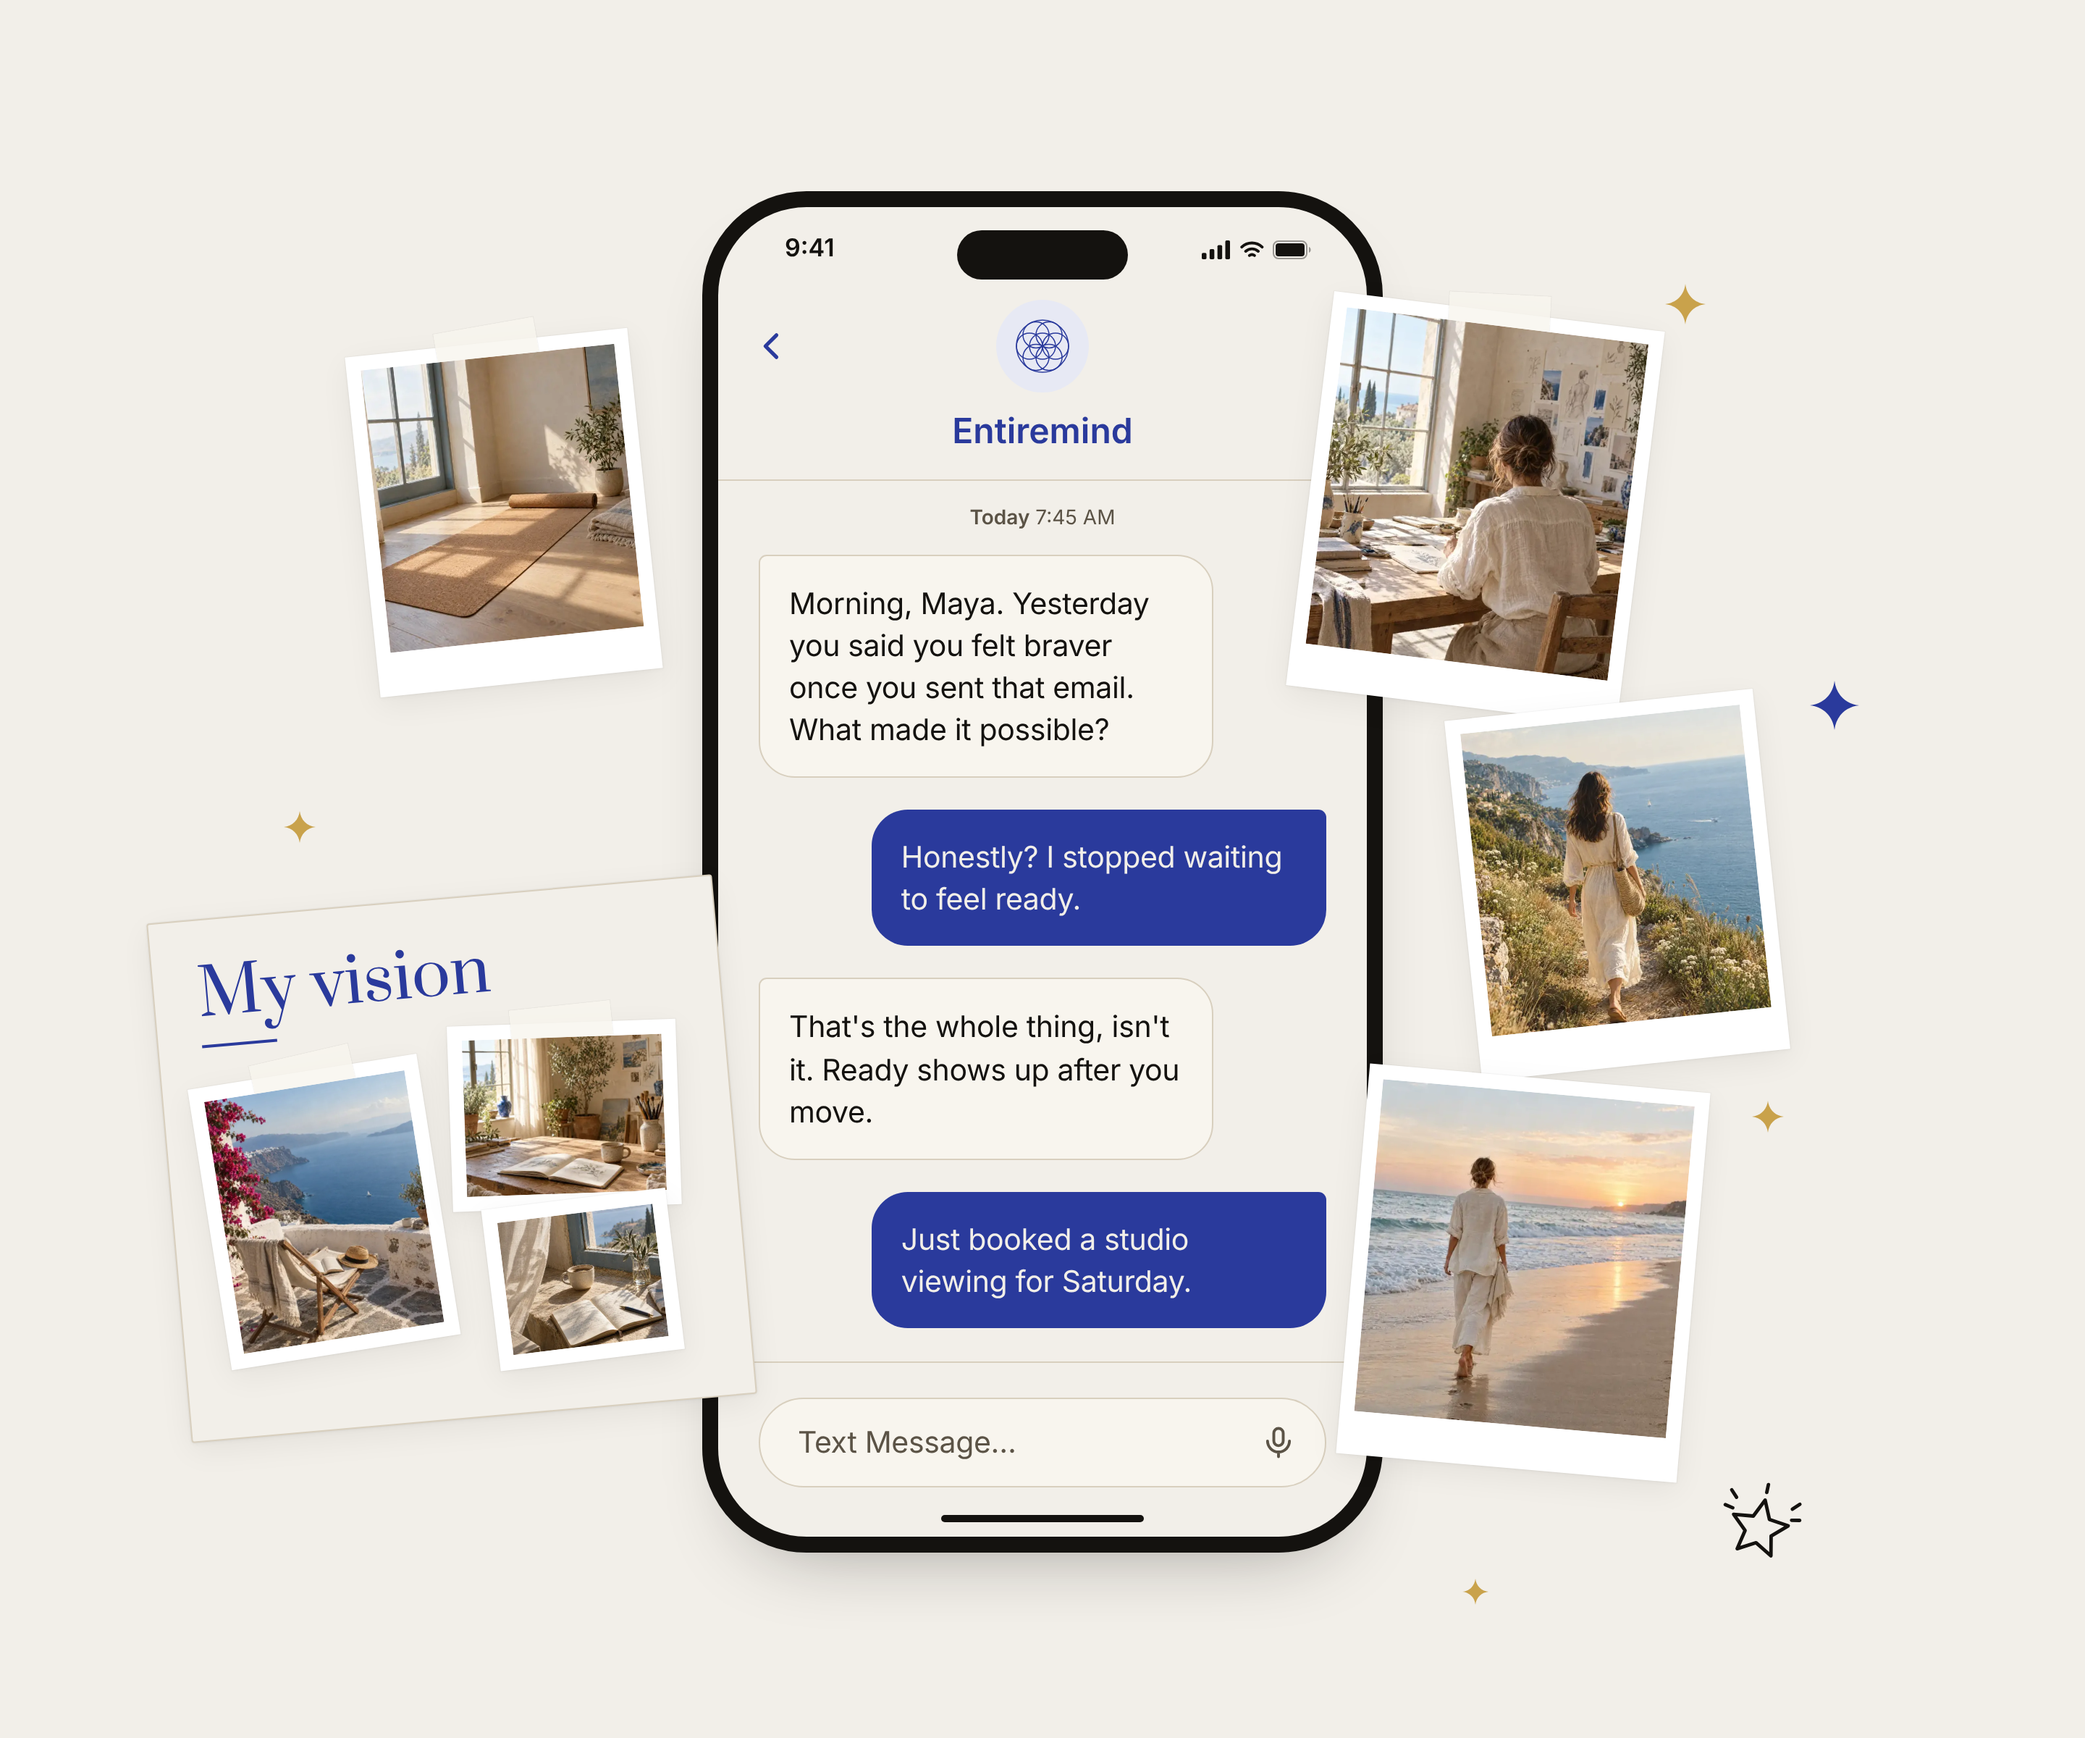
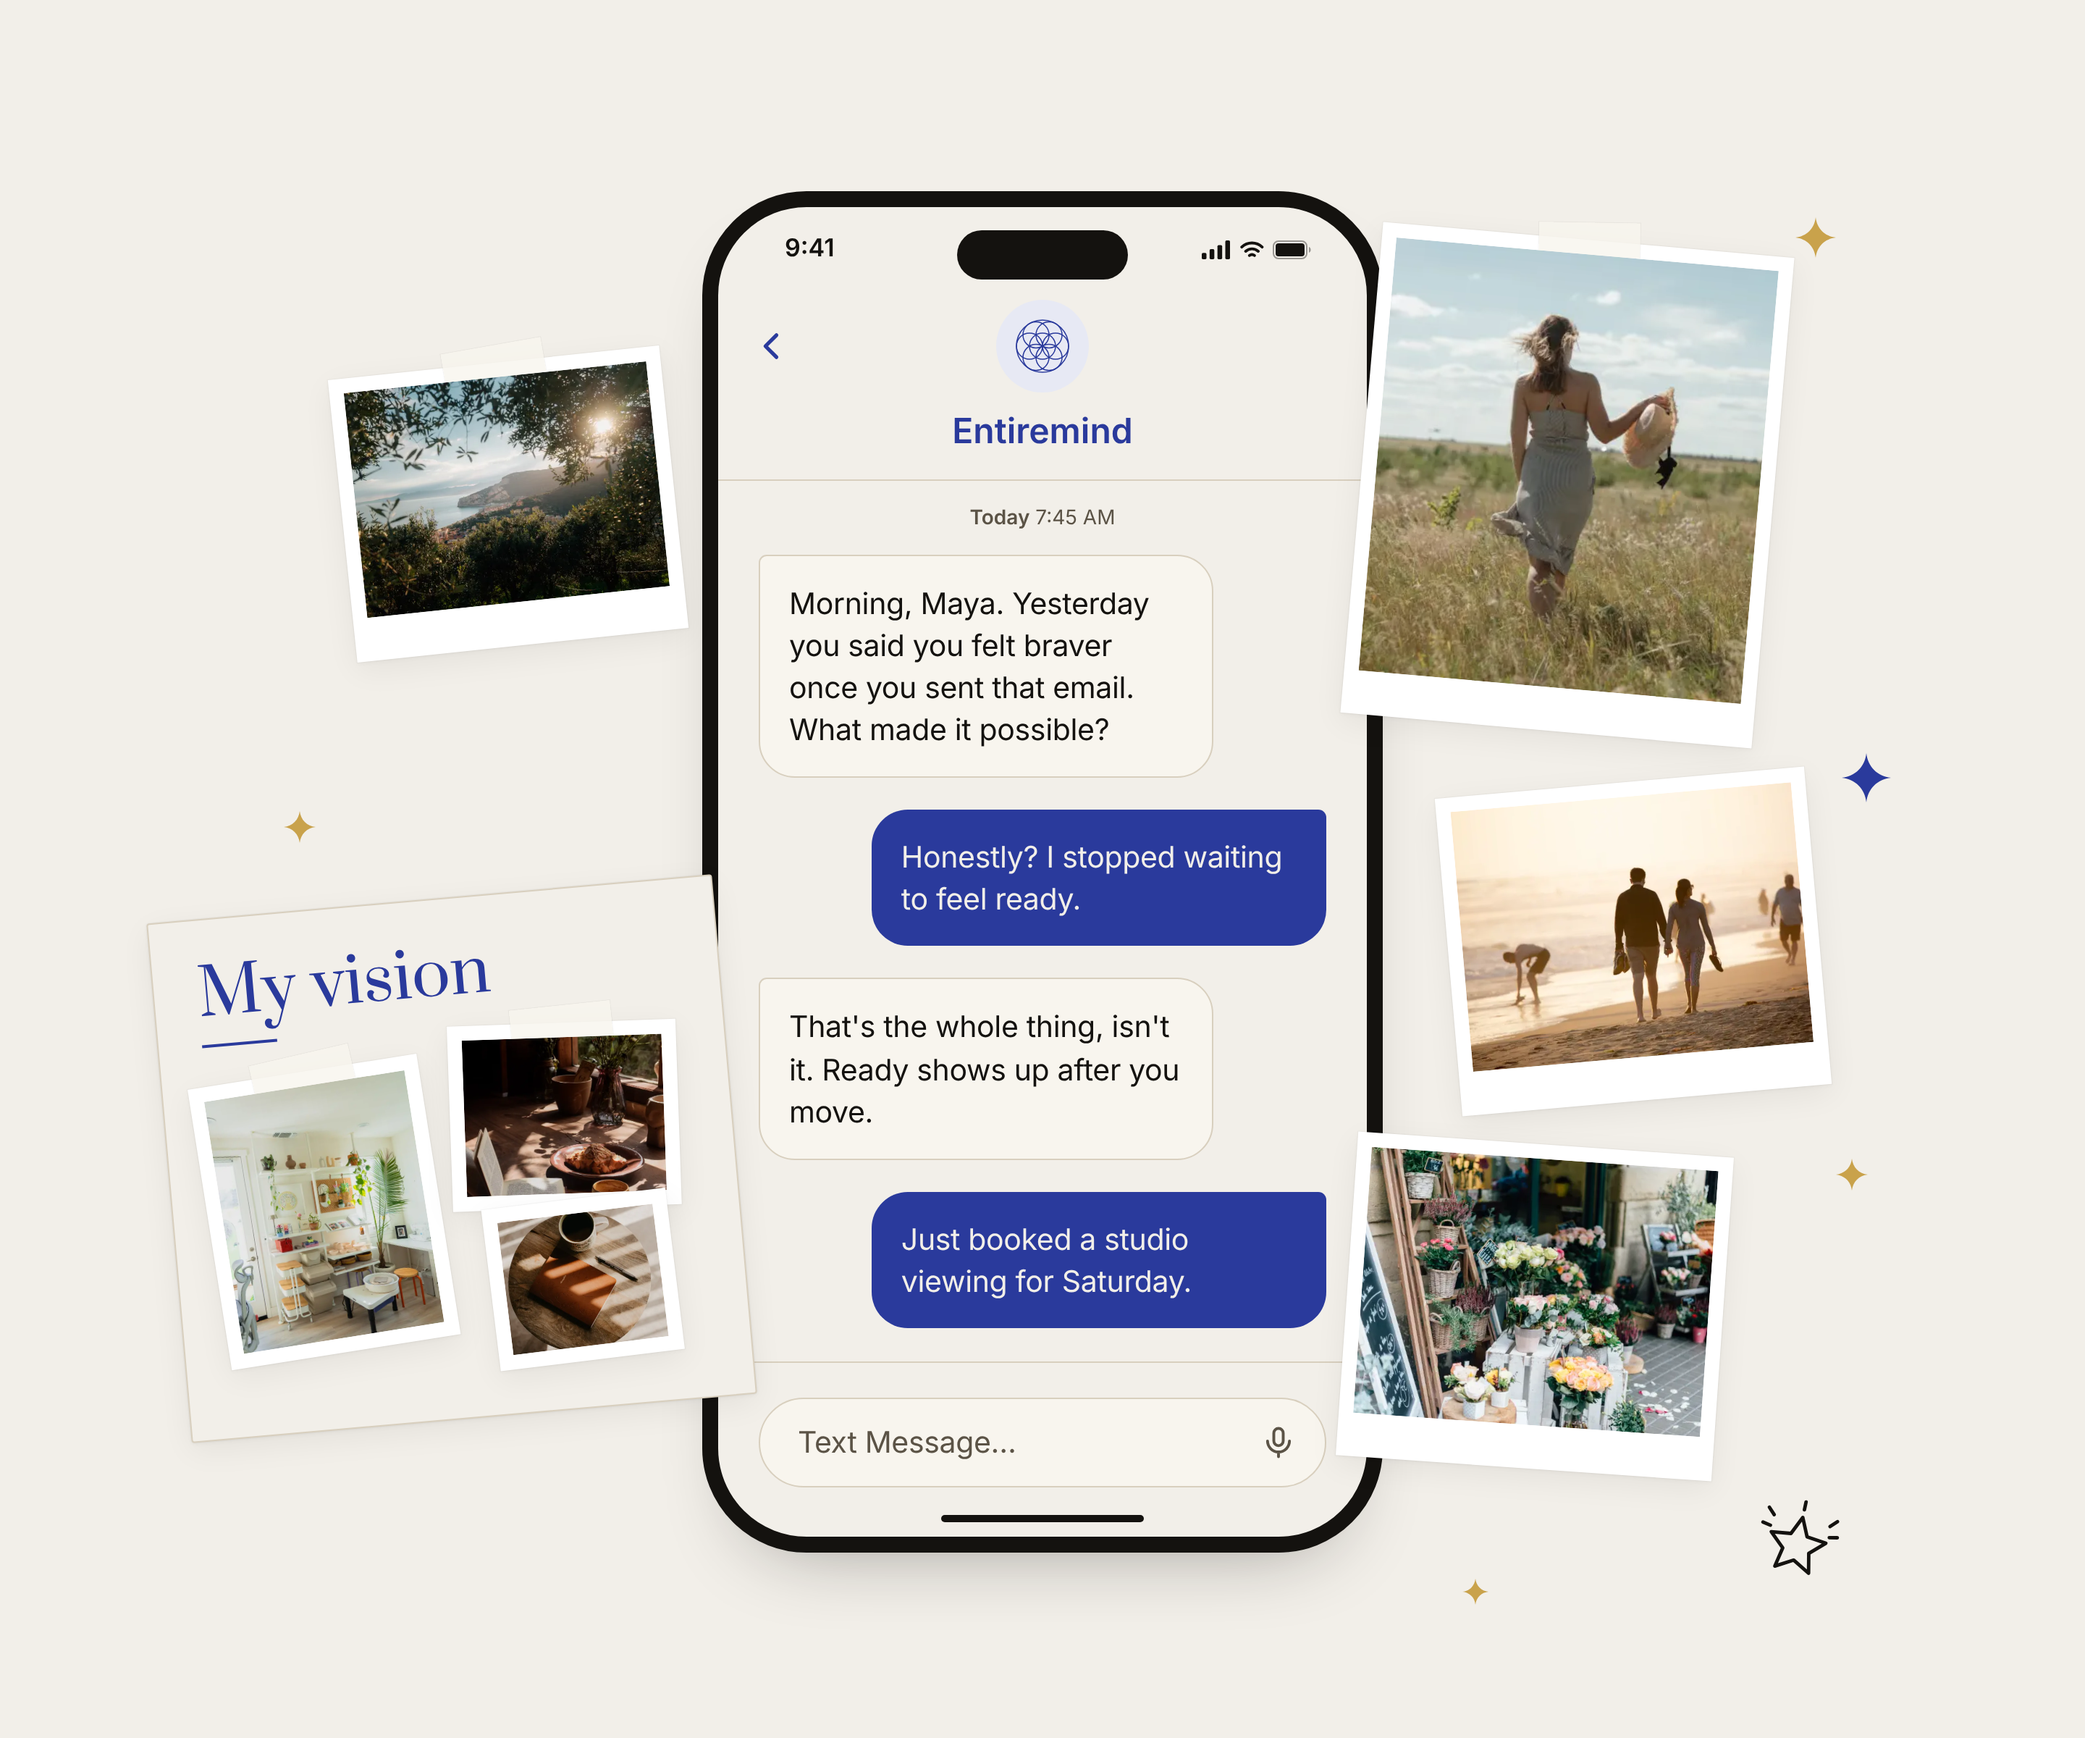
Hero: real Unsplash photos in the 'My vision' spill
Replaces the generated stills in the landing hero's spill layout with
seven Unsplash photographs, credited in the PHOTO map (Unsplash
License: free for commercial use). Freedom (woman in a field) is now
the largest print, top-right. Love and the flower shop cascade below
it, and an olive-lit coast sits top-left. The board holds the pottery
studio, a slow morning table and a journal with coffee. The cards,
board and scatter scenes keep their current images.

Claude-Session: https://claude.ai/code/session_01XFR3k6ZrktobPacJJyLqAi

diff --git a/src/components/landing/hero-scene.tsx b/src/components/landing/hero-scene.tsx
@@ -40,6 +40,22 @@ const PHOTO = {
   slowMorning: "/marketing/hero/slow-morning.webp",
   beachWalk: "/marketing/hero/beach-walk.webp",
   yoga: "/marketing/hero/yoga.webp",
+  // Real photographs from Unsplash (Unsplash License: free for commercial
+  // use, attribution not required; credited here anyway). Used by `spill`.
+  // Anton Mislawsky, unsplash.com/photos/1HZlP-nOr78
+  freedomField: "/marketing/hero/freedom-field.webp",
+  // Bob Oh, unsplash.com/photos/6t6h5kABuW4
+  loveBeach: "/marketing/hero/love-beach.webp",
+  // Roman Kraft, unsplash.com/photos/_oH66az_yug
+  flowerShop: "/marketing/hero/flower-shop.webp",
+  // Fredo Gerdes, unsplash.com/photos/CrsfwpUcctE
+  oliveCoast: "/marketing/hero/olive-coast.webp",
+  // Kailun Zhang, unsplash.com/photos/Qkkk7c84wNA
+  potteryStudio: "/marketing/hero/pottery-studio.webp",
+  // Yuliia Martsynkevych, unsplash.com/photos/b4lcWyZ0acg
+  slowMorningTable: "/marketing/hero/slow-morning-table.webp",
+  // Andres Molina, unsplash.com/photos/8CGOX7oSMbI
+  journalCoffee: "/marketing/hero/journal-coffee.webp",
 } as const;
 
 /** Position on the 1440 × 1200 canvas, in canvas units. */
@@ -302,53 +318,54 @@ function SpillLayout() {
         <div className={styles.boardRule} />
         <Print
           box={at(24, 110, 160, 196, -4)}
-          src={PHOTO.terrace}
-          alt="A terrace above a calm blue sea"
+          src={PHOTO.potteryStudio}
+          alt="A bright pottery studio with a wheel and shelves of ceramics"
           slim
           tape
         />
         <Print
           box={at(196, 92, 158, 128, 3)}
-          src={PHOTO.studio}
-          alt="A sunlit creative studio"
+          src={PHOTO.slowMorningTable}
+          alt="An open book, croissant and coffee by a sunlit window"
           slim
           tape
         />
         <Print
           box={at(214, 214, 128, 112, -2)}
-          src={PHOTO.coffeeJournal}
-          alt="Coffee and a journal on a windowsill"
+          src={PHOTO.journalCoffee}
+          alt="Coffee and a notebook in striped window light"
           slim
         />
       </div>
+      {/* The lead image: freedom, the largest print on the page. */}
       <Print
-        box={at(904, 214, 230, 274, 7)}
-        src={PHOTO.studioWoman}
-        alt="A woman at work in her own studio"
+        box={at(940, 165, 285, 340, 5)}
+        src={PHOTO.freedomField}
+        alt="A woman walking through a summer field holding a straw hat"
         tape
       />
       <Print
-        box={at(1010, 486, 214, 250, -6)}
-        src={PHOTO.cliffWalk}
-        alt="A woman walking a coastal path above the sea"
+        box={at(1000, 540, 256, 220, -5)}
+        src={PHOTO.loveBeach}
+        alt="A couple walking hand in hand along a golden beach"
       />
       <Print
-        box={at(934, 744, 236, 270, 5)}
-        src={PHOTO.beachWalk}
-        alt="A woman walking a quiet beach at sunrise"
+        box={at(930, 790, 260, 224, 4)}
+        src={PHOTO.flowerShop}
+        alt="Buckets of fresh flowers outside a small flower shop"
       />
       <Print
-        box={at(250, 236, 196, 236, -6)}
-        src={PHOTO.yoga}
-        alt="A yoga mat by a sunlit window"
+        box={at(236, 250, 230, 196, -6)}
+        src={PHOTO.oliveCoast}
+        alt="Sunlight through olive branches above a coastal town"
         tape
       />
-      <Sparkle x={1150} y={196} size={28} />
-      <Sparkle x={1250} y={470} size={34} tone="cobalt" />
-      <Sparkle x={1210} y={760} size={22} />
+      <Sparkle x={1240} y={150} size={28} />
+      <Sparkle x={1272} y={520} size={34} tone="cobalt" />
+      <Sparkle x={1268} y={800} size={22} />
       <Sparkle x={1010} y={1090} size={18} />
       <Sparkle x={196} y={560} size={22} />
-      <Doodle kind="star" x={1180} y={1020} size={70} rotate={12} />
+      <Doodle kind="star" x={1206} y={1032} size={70} rotate={12} />
     </>
   );
 }
